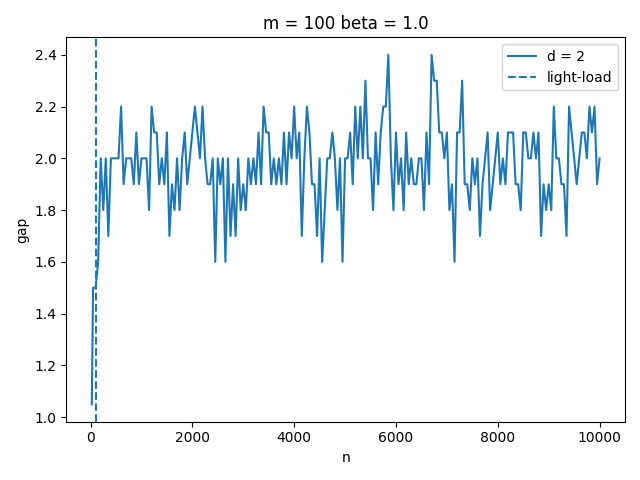
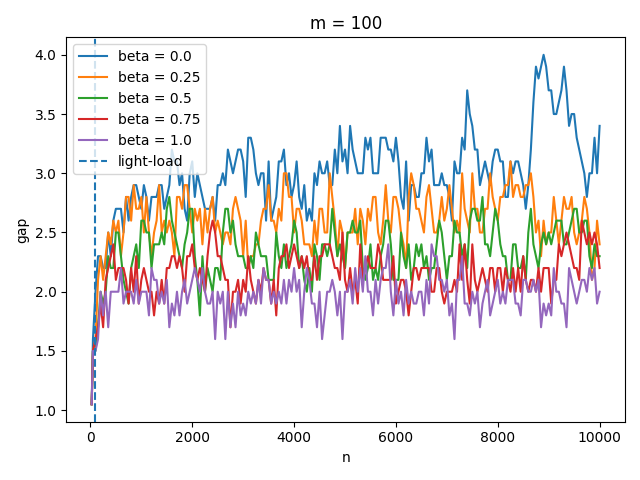
arreglo

diff --git a/exp6metricsplots.py b/exp6metricsplots.py
@@ -24,25 +24,23 @@ if __name__=="__main__":
         for beta_value in sorted(df_m["beta"].unique()):
             df_beta = df_m[df_m["beta"] == beta_value]
 
-            for d_value in sorted(df_beta["d"].unique()):
-                df_d = df_beta[df_beta["d"] == d_value]
-                plt.plot(
-                    df_d["n"],
-                    df_d["gap"],
-                    label=f"d = {d_value}"
-                )
+            plt.plot(
+                df_beta["n"],
+                df_beta["gap"],
+                label=f"beta = {beta_value}"
+            )
 
-            plt.axvline(
-            x=m_value,
-            linestyle="--",
-            linewidth=1.5,
-            label="light-load"
+        plt.axvline(
+        x=m_value,
+        linestyle="--",
+        linewidth=1.5,
+        label="light-load"
         )
 
-            plt.xlabel("n")
-            plt.ylabel("std gap")
-            plt.title(f"m = {m_value} k = {beta_value+1}")
-            plt.legend()
-            plt.tight_layout()
-            plt.savefig(f"./exp6/metrics/m{m_value}_beta{beta_value}.png")
-            plt.close()
+        plt.xlabel("n")
+        plt.ylabel("std gap")
+        plt.title(f"m = {m_value} k = {beta_value+1}")
+        plt.legend()
+        plt.tight_layout()
+        plt.savefig(f"./exp6/metrics/m{m_value}_beta{beta_value}.png")
+        plt.close()

diff --git a/exp6plots.py b/exp6plots.py
@@ -17,25 +17,23 @@ if __name__=="__main__":
         for beta_value in sorted(df_m["beta"].unique()):
             df_beta = df_m[df_m["beta"] == beta_value]
 
-            for d_value in sorted(df_beta["d"].unique()):
-                df_d = df_beta[df_beta["d"] == d_value]
-                plt.plot(
-                    df_d["n"],
-                    df_d["gap"],
-                    label=f"d = {d_value}"
-                )
+            plt.plot(
+                df_beta["n"],
+                df_beta["gap"],
+                label=f"beta = {beta_value}"
+            )
 
-            plt.axvline(
-            x=m_value,
-            linestyle="--",
-            linewidth=1.5,
-            label="light-load"
+        plt.axvline(
+        x=m_value,
+        linestyle="--",
+        linewidth=1.5,
+        label="light-load"
         )
 
-            plt.xlabel("n")
-            plt.ylabel("gap")
-            plt.title(f"m = {m_value} beta = {beta_value}")
-            plt.legend()
-            plt.tight_layout()
-            plt.savefig(f"./exp6/m{m_value}_beta{beta_value}.png")
-            plt.show()
+        plt.xlabel("n")
+        plt.ylabel("gap")
+        plt.title(f"m = {m_value}")
+        plt.legend()
+        plt.tight_layout()
+        plt.savefig(f"./exp6/m{m_value}_beta{beta_value}.png")
+        plt.show()
